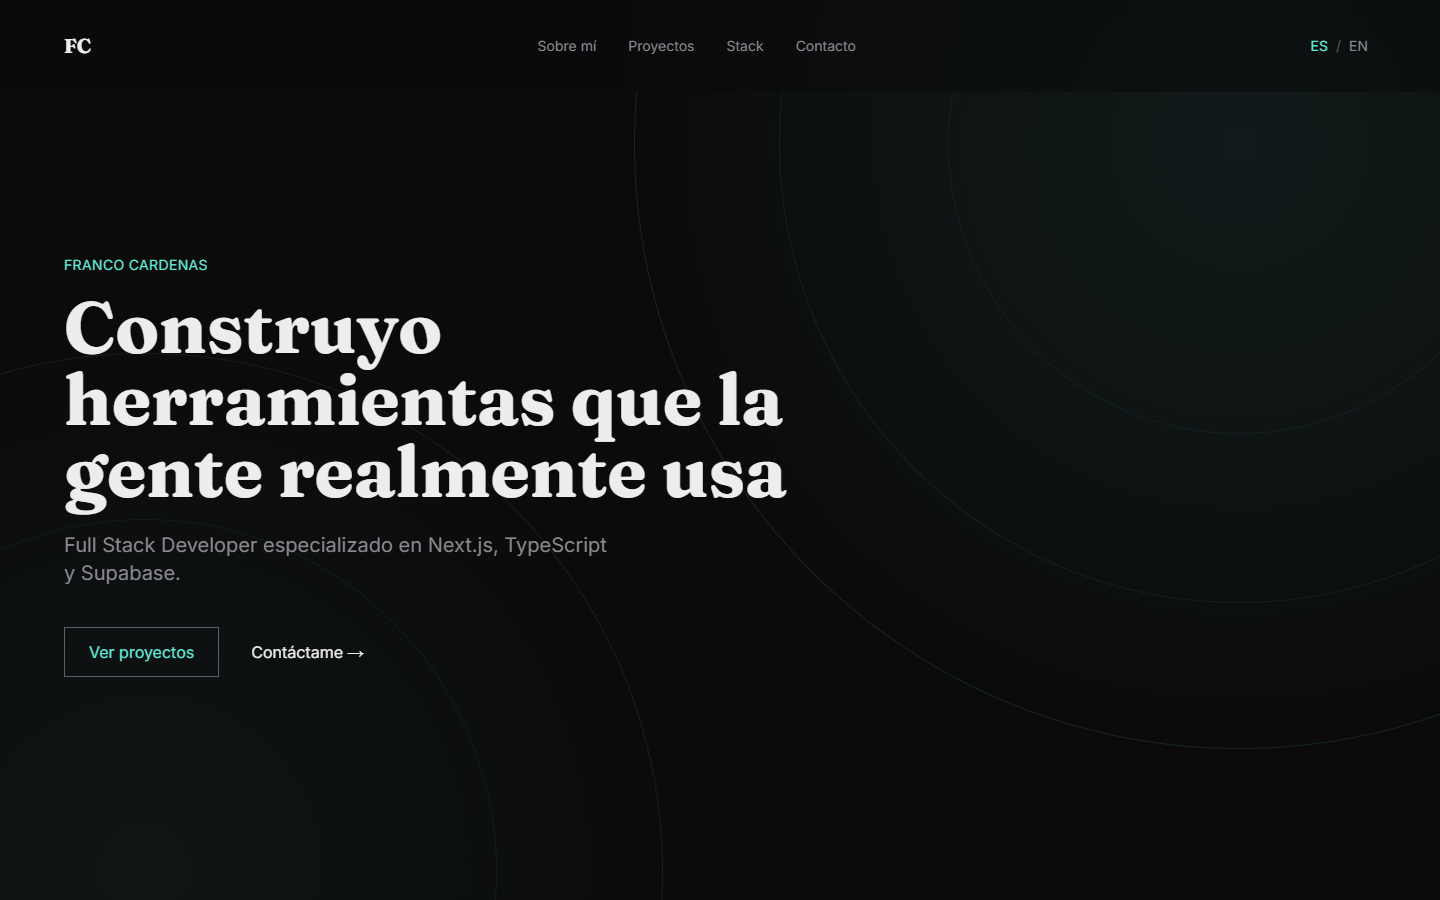
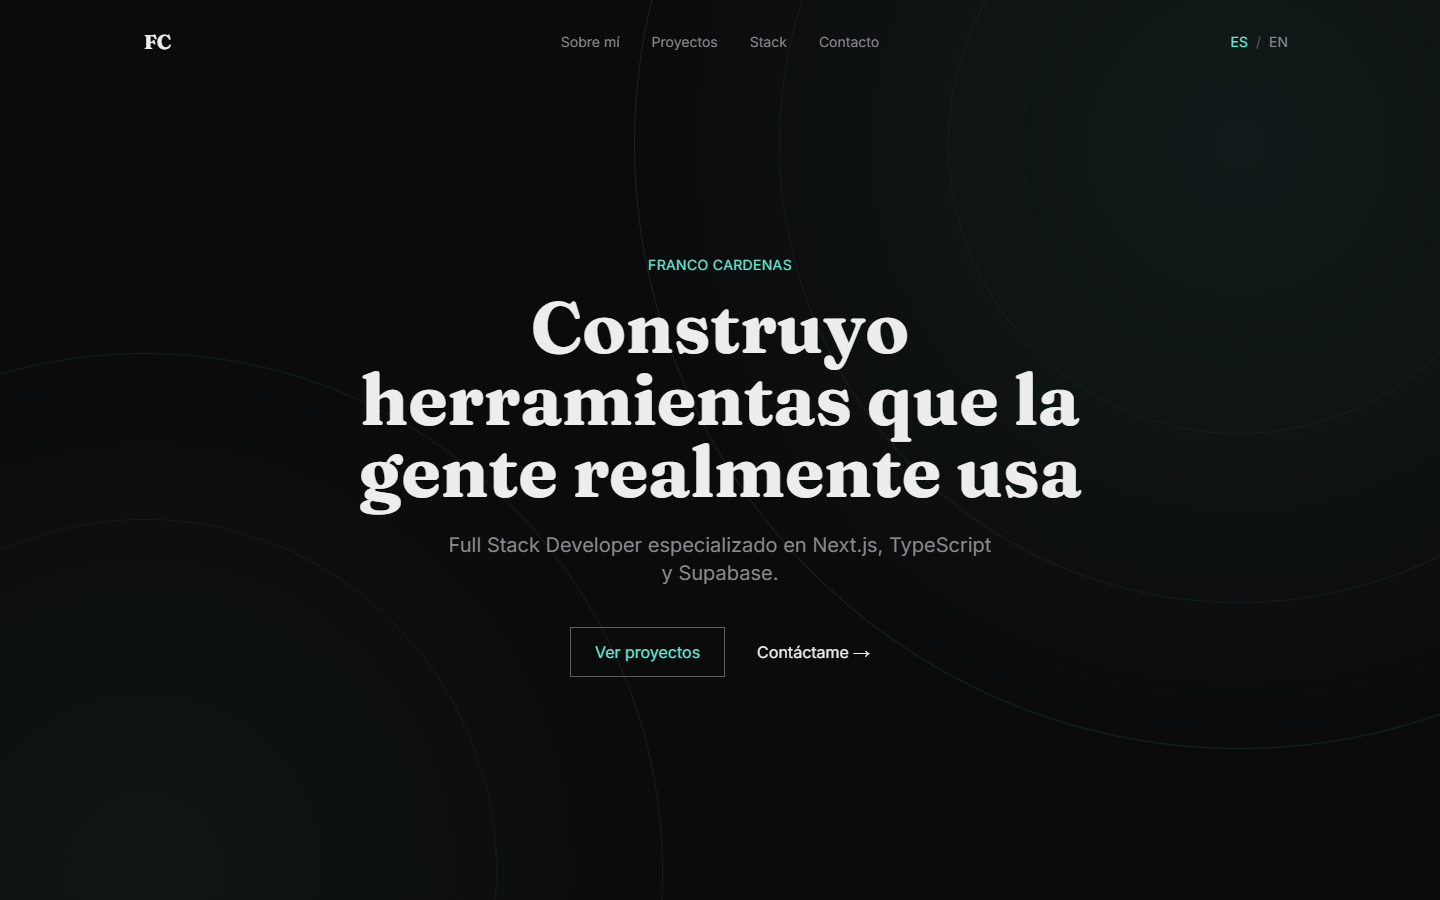
feat: center content layout and polish scrolling
- Center the hero, about, projects, stack, contact and footer in a shared max-width container
- Align header content with the page container and center the nav
- Make the header transparent at the top and solid with a border after scrolling
- Highlight the active section in the nav while scrolling
- Animate in-page anchor links with Lenis and tune smoothing
- Refresh README screenshots

diff --git a/src/components/Header.tsx b/src/components/Header.tsx
@@ -1,12 +1,13 @@
 'use client';
 
 import { Fragment, useEffect, useRef, useState } from 'react';
-import { AnimatePresence, motion } from 'framer-motion';
+import { AnimatePresence, motion, useMotionValueEvent, useScroll } from 'framer-motion';
 import { useTranslations, useLocale } from 'next-intl';
 import { usePathname, useRouter } from '@/i18n/navigation';
 import { EASE_SOFT } from '@/lib/motion';
 
 const NAV_LINKS = ['about', 'projects', 'stack', 'contact'] as const;
+const OBSERVED_SECTIONS = ['top', ...NAV_LINKS] as const;
 const LOCALES = [
   { code: 'es', label: 'Español' },
   { code: 'en', label: 'English' },
@@ -18,7 +19,32 @@ export function Header() {
   const pathname = usePathname();
   const router = useRouter();
   const [menuOpen, setMenuOpen] = useState(false);
+  const [scrolled, setScrolled] = useState(false);
+  const [activeSection, setActiveSection] = useState<string | null>(null);
   const menuButtonRef = useRef<HTMLButtonElement>(null);
+  const { scrollY } = useScroll();
+
+  useMotionValueEvent(scrollY, 'change', (value) => setScrolled(value > 24));
+
+  useEffect(() => {
+    const elements = OBSERVED_SECTIONS.map((id) => document.getElementById(id)).filter(
+      (el): el is HTMLElement => el !== null,
+    );
+
+    const observer = new IntersectionObserver(
+      (entries) => {
+        for (const entry of entries) {
+          if (entry.isIntersecting) {
+            setActiveSection(entry.target.id === 'top' ? null : entry.target.id);
+          }
+        }
+      },
+      { rootMargin: '-45% 0px -50% 0px' },
+    );
+
+    elements.forEach((el) => observer.observe(el));
+    return () => observer.disconnect();
+  }, []);
 
   useEffect(() => {
     if (!menuOpen) return;
@@ -43,82 +69,94 @@ export function Header() {
       initial={{ opacity: 0, y: -20 }}
       animate={{ opacity: 1, y: 0 }}
       transition={{ duration: 0.5, ease: EASE_SOFT }}
-      className="fixed top-0 left-0 right-0 z-50 flex items-center justify-between px-8 md:px-16 py-3 md:py-6 bg-background/80 backdrop-blur-md"
+      className={`fixed top-0 left-0 right-0 z-50 border-b px-8 md:px-16 py-3 md:py-5 transition-[background-color,border-color,backdrop-filter] ${
+        scrolled || menuOpen
+          ? 'border-border bg-background/80 backdrop-blur-md'
+          : 'border-transparent bg-transparent'
+      }`}
     >
-      <a
-        href="#"
-        aria-label={t('home')}
-        className="inline-flex min-h-11 items-center font-display text-xl font-bold"
-      >
-        FC
-      </a>
+      <div className="mx-auto flex max-w-6xl items-center justify-between md:grid md:grid-cols-[1fr_auto_1fr]">
+        <a
+          href="#top"
+          aria-label={t('home')}
+          className="inline-flex min-h-11 items-center font-display text-xl font-bold"
+        >
+          FC
+        </a>
 
-      <nav
-        aria-label={t('label')}
-        className="hidden md:flex items-center gap-8 text-sm text-muted"
-      >
-        {NAV_LINKS.map((id) => (
-          <a
-            key={id}
-            href={`#${id}`}
-            className="relative py-2 hover:text-foreground transition-colors after:absolute after:inset-x-0 after:bottom-1 after:h-px after:origin-left after:scale-x-0 after:bg-accent after:transition-transform hover:after:scale-x-100 focus-visible:after:scale-x-100"
-          >
-            {t(id)}
-          </a>
-        ))}
-      </nav>
-
-      <div className="flex items-center gap-1 md:gap-3 text-sm">
-        <div role="group" aria-label={t('language')} className="flex items-center">
-          {LOCALES.map(({ code, label }, index) => (
-            <Fragment key={code}>
-              {index > 0 && (
-                <span aria-hidden="true" className="text-border-strong">
-                  /
-                </span>
-              )}
-              <button
-                type="button"
-                lang={code}
-                aria-label={`${code.toUpperCase()} — ${label}`}
-                aria-pressed={locale === code}
-                onClick={() => switchLocale(code)}
-                className={`inline-flex min-h-11 min-w-11 items-center justify-center md:min-h-0 md:min-w-0 md:px-2 md:py-1 transition-colors ${
-                  locale === code ? 'text-accent' : 'text-muted hover:text-foreground'
+        <nav
+          aria-label={t('label')}
+          className="hidden md:flex items-center gap-8 text-sm text-muted"
+        >
+          {NAV_LINKS.map((id) => {
+            const isActive = activeSection === id;
+            return (
+              <a
+                key={id}
+                href={`#${id}`}
+                aria-current={isActive ? 'location' : undefined}
+                className={`relative py-2 hover:text-foreground transition-colors after:absolute after:inset-x-0 after:bottom-1 after:h-px after:origin-left after:bg-accent after:transition-transform hover:after:scale-x-100 focus-visible:after:scale-x-100 ${
+                  isActive ? 'text-foreground after:scale-x-100' : 'after:scale-x-0'
                 }`}
               >
-                {code.toUpperCase()}
-              </button>
-            </Fragment>
-          ))}
-        </div>
+                {t(id)}
+              </a>
+            );
+          })}
+        </nav>
 
-        <button
-          ref={menuButtonRef}
-          type="button"
-          aria-expanded={menuOpen}
-          aria-controls="mobile-nav"
-          aria-label={menuOpen ? t('closeMenu') : t('openMenu')}
-          onClick={() => setMenuOpen((open) => !open)}
-          className="md:hidden inline-flex h-11 w-11 items-center justify-center text-foreground"
-        >
-          <svg
-            aria-hidden="true"
-            width="22"
-            height="22"
-            viewBox="0 0 24 24"
-            fill="none"
-            stroke="currentColor"
-            strokeWidth="2"
-            strokeLinecap="round"
+        <div className="flex items-center gap-1 md:gap-3 md:justify-self-end text-sm">
+          <div role="group" aria-label={t('language')} className="flex items-center">
+            {LOCALES.map(({ code, label }, index) => (
+              <Fragment key={code}>
+                {index > 0 && (
+                  <span aria-hidden="true" className="text-border-strong">
+                    /
+                  </span>
+                )}
+                <button
+                  type="button"
+                  lang={code}
+                  aria-label={`${code.toUpperCase()} — ${label}`}
+                  aria-pressed={locale === code}
+                  onClick={() => switchLocale(code)}
+                  className={`inline-flex min-h-11 min-w-11 items-center justify-center md:min-h-0 md:min-w-0 md:px-2 md:py-1 transition-colors ${
+                    locale === code ? 'text-accent' : 'text-muted hover:text-foreground'
+                  }`}
+                >
+                  {code.toUpperCase()}
+                </button>
+              </Fragment>
+            ))}
+          </div>
+
+          <button
+            ref={menuButtonRef}
+            type="button"
+            aria-expanded={menuOpen}
+            aria-controls="mobile-nav"
+            aria-label={menuOpen ? t('closeMenu') : t('openMenu')}
+            onClick={() => setMenuOpen((open) => !open)}
+            className="md:hidden inline-flex h-11 w-11 items-center justify-center text-foreground"
           >
-            {menuOpen ? (
-              <path d="M6 6l12 12M18 6L6 18" />
-            ) : (
-              <path d="M4 7h16M4 12h16M4 17h16" />
-            )}
-          </svg>
-        </button>
+            <svg
+              aria-hidden="true"
+              width="22"
+              height="22"
+              viewBox="0 0 24 24"
+              fill="none"
+              stroke="currentColor"
+              strokeWidth="2"
+              strokeLinecap="round"
+            >
+              {menuOpen ? (
+                <path d="M6 6l12 12M18 6L6 18" />
+              ) : (
+                <path d="M4 7h16M4 12h16M4 17h16" />
+              )}
+            </svg>
+          </button>
+        </div>
       </div>
 
       <AnimatePresence>
@@ -136,8 +174,11 @@ export function Header() {
               <a
                 key={id}
                 href={`#${id}`}
+                aria-current={activeSection === id ? 'location' : undefined}
                 onClick={() => setMenuOpen(false)}
-                className="py-3 text-lg text-muted hover:text-foreground transition-colors"
+                className={`py-3 text-lg transition-colors hover:text-foreground ${
+                  activeSection === id ? 'text-accent' : 'text-muted'
+                }`}
               >
                 {t(id)}
               </a>

diff --git a/src/components/sections/Hero.tsx b/src/components/sections/Hero.tsx
@@ -7,32 +7,33 @@ export function Hero() {
 
   return (
     <section
+      id="top"
       aria-labelledby="hero-heading"
-      className="min-h-screen flex flex-col justify-center px-8 md:px-16 pt-24 pb-16"
+      className="min-h-screen flex flex-col items-center justify-center text-center px-8 md:px-16 pt-24 pb-16"
     >
-      <ParallaxLayer speed={0.06} className="mb-4">
+      <ParallaxLayer speed={0.06} className="mb-4 w-full">
         <p className="animate-fade-up motion-reduce:animate-none text-sm uppercase tracking-wide text-accent">
           {SITE_NAME}
         </p>
       </ParallaxLayer>
 
-      <ParallaxLayer speed={0.12}>
+      <ParallaxLayer speed={0.12} className="w-full">
         <h1
           id="hero-heading"
-          className="animate-slide-up motion-reduce:animate-none text-4xl sm:text-5xl md:text-7xl font-display font-bold max-w-3xl text-balance"
+          className="animate-slide-up motion-reduce:animate-none mx-auto max-w-3xl text-4xl sm:text-5xl md:text-7xl font-display font-bold text-balance"
         >
           {t('title')}
         </h1>
       </ParallaxLayer>
 
-      <ParallaxLayer speed={0.2} className="mt-6">
-        <p className="animate-fade-up motion-reduce:animate-none [animation-delay:120ms] text-lg md:text-xl text-muted max-w-xl text-balance">
+      <ParallaxLayer speed={0.2} className="mt-6 w-full">
+        <p className="animate-fade-up motion-reduce:animate-none [animation-delay:120ms] mx-auto max-w-xl text-lg md:text-xl text-muted text-balance">
           {t('subtitle')}
         </p>
       </ParallaxLayer>
 
-      <ParallaxLayer speed={0.28} className="mt-10">
-        <div className="animate-fade-up motion-reduce:animate-none [animation-delay:240ms] flex flex-wrap items-center gap-x-8 gap-y-2">
+      <ParallaxLayer speed={0.28} className="mt-10 w-full">
+        <div className="animate-fade-up motion-reduce:animate-none [animation-delay:240ms] flex flex-wrap items-center justify-center gap-x-8 gap-y-2">
           <a href="#projects" className="btn-outline">
             {t('cta')}
           </a>

diff --git a/src/components/sections/Contact.tsx b/src/components/sections/Contact.tsx
@@ -88,9 +88,9 @@ export function Contact() {
     <section
       id="contact"
       aria-labelledby="contact-heading"
-      className="min-h-screen flex items-center px-8 md:px-16 py-24 border-t border-border"
+      className="min-h-screen flex items-center justify-center px-8 md:px-16 py-24 border-t border-border"
     >
-      <motion.div {...reveal()} className="max-w-2xl w-full">
+      <motion.div {...reveal()} className="mx-auto w-full max-w-xl text-center">
         <h2
           id="contact-heading"
           className="text-3xl md:text-5xl font-display font-bold text-accent mb-8"
@@ -101,7 +101,7 @@ export function Contact() {
           {t('body')}
         </p>
 
-        <form onSubmit={handleSubmit} noValidate className="flex flex-col gap-5">
+        <form onSubmit={handleSubmit} noValidate className="flex flex-col gap-5 text-left">
           <div
             aria-hidden="true"
             className="absolute -left-[9999px] h-0 w-0 overflow-hidden"
@@ -192,7 +192,7 @@ export function Contact() {
             )}
           </div>
 
-          <div className="flex flex-wrap items-center gap-4">
+          <div className="flex flex-col items-center gap-3 text-center">
             <button
               type="submit"
               disabled={isSending}
@@ -213,14 +213,14 @@ export function Contact() {
             </div>
           </div>
 
-          <p id="contact-privacy" className="text-sm text-muted">
+          <p id="contact-privacy" className="text-center text-sm text-muted">
             {t('form.privacy')}
           </p>
         </form>
 
         <div className="mt-12 pt-8 border-t border-border">
           <p className="text-sm text-muted mb-4">{t('orDirect')}</p>
-          <div className="flex flex-col sm:flex-row sm:flex-wrap gap-4">
+          <div className="flex flex-col items-center sm:flex-row sm:flex-wrap sm:justify-center gap-4">
             <a
               href={`mailto:${EMAIL}`}
               className="btn-outline"

diff --git a/src/components/sections/Stack.tsx b/src/components/sections/Stack.tsx
@@ -17,23 +17,23 @@ export function Stack() {
       <motion.h2
         id="stack-heading"
         {...reveal()}
-        className="text-3xl md:text-5xl font-display font-bold text-accent mb-16"
+        className="mx-auto max-w-6xl text-center text-3xl md:text-5xl font-display font-bold text-accent mb-16"
       >
         {t('heading')}
       </motion.h2>
 
-      <div className="grid gap-8 sm:grid-cols-2 lg:grid-cols-4">
+      <div className="mx-auto grid max-w-6xl gap-8 sm:grid-cols-2 lg:grid-cols-4">
         {stack.map((group, index) => (
           <motion.div
             key={group.category}
             {...reveal(index * STAGGER)}
             whileHover={{ y: -4 }}
-            className="border border-border bg-surface p-6 hover:border-border-strong"
+            className="border border-border bg-surface p-6 text-center hover:border-border-strong"
           >
             <h3 className="text-sm uppercase tracking-wide text-accent mb-4">
               {t(`categories.${group.category}`)}
             </h3>
-            <ul className="flex flex-wrap gap-2">
+            <ul className="flex flex-wrap justify-center gap-2">
               {group.items.map((tech) => (
                 <li
                   key={tech}

diff --git a/src/components/sections/Projects.tsx b/src/components/sections/Projects.tsx
@@ -17,12 +17,12 @@ export function Projects() {
       <motion.h2
         id="projects-heading"
         {...reveal()}
-        className="text-3xl md:text-5xl font-display font-bold text-accent mb-16"
+        className="mx-auto max-w-6xl text-center text-3xl md:text-5xl font-display font-bold text-accent mb-16"
       >
         {t('heading')}
       </motion.h2>
 
-      <div className="grid gap-8 sm:grid-cols-2 lg:grid-cols-3">
+      <div className="mx-auto grid max-w-6xl gap-8 sm:grid-cols-2 lg:grid-cols-3">
         {projects.map((project, index) => (
           <motion.article
             key={project.id}

diff --git a/src/components/sections/About.tsx b/src/components/sections/About.tsx
@@ -11,9 +11,9 @@ export function About() {
     <section
       id="about"
       aria-labelledby="about-heading"
-      className="min-h-screen flex items-center px-8 md:px-16 py-24 border-t border-border"
+      className="min-h-screen flex items-center justify-center px-8 md:px-16 py-24 border-t border-border"
     >
-      <motion.div {...reveal()} className="max-w-2xl">
+      <motion.div {...reveal()} className="max-w-2xl text-center">
         <h2
           id="about-heading"
           className="text-3xl md:text-5xl font-display font-bold text-accent mb-8"

diff --git a/src/lib/useLenis.ts b/src/lib/useLenis.ts
@@ -3,6 +3,8 @@
 import { useEffect } from 'react';
 import Lenis from 'lenis';
 
+const easeOutQuart = (t: number) => 1 - Math.pow(1 - t, 4);
+
 export function useLenis() {
   useEffect(() => {
     if (window.matchMedia('(prefers-reduced-motion: reduce)').matches) {
@@ -10,8 +12,8 @@ export function useLenis() {
     }
 
     const lenis = new Lenis({
-      duration: 1.1,
-      easing: (t: number) => Math.min(1, 1.001 - Math.pow(2, -10 * t)),
+      lerp: 0.1,
+      anchors: { duration: 1.4, easing: easeOutQuart },
     });
 
     function raf(time: number) {

diff --git a/src/components/Footer.tsx b/src/components/Footer.tsx
@@ -17,7 +17,7 @@ export function Footer() {
   return (
     <motion.footer
       {...reveal()}
-      className="border-t border-border px-8 md:px-16 py-10 flex flex-col md:flex-row items-center justify-between gap-4 text-sm text-muted"
+      className="border-t border-border px-8 md:px-16 py-10 flex flex-col items-center gap-2 text-center text-sm text-muted"
     >
       <p>
         © {year} {SITE_NAME}
